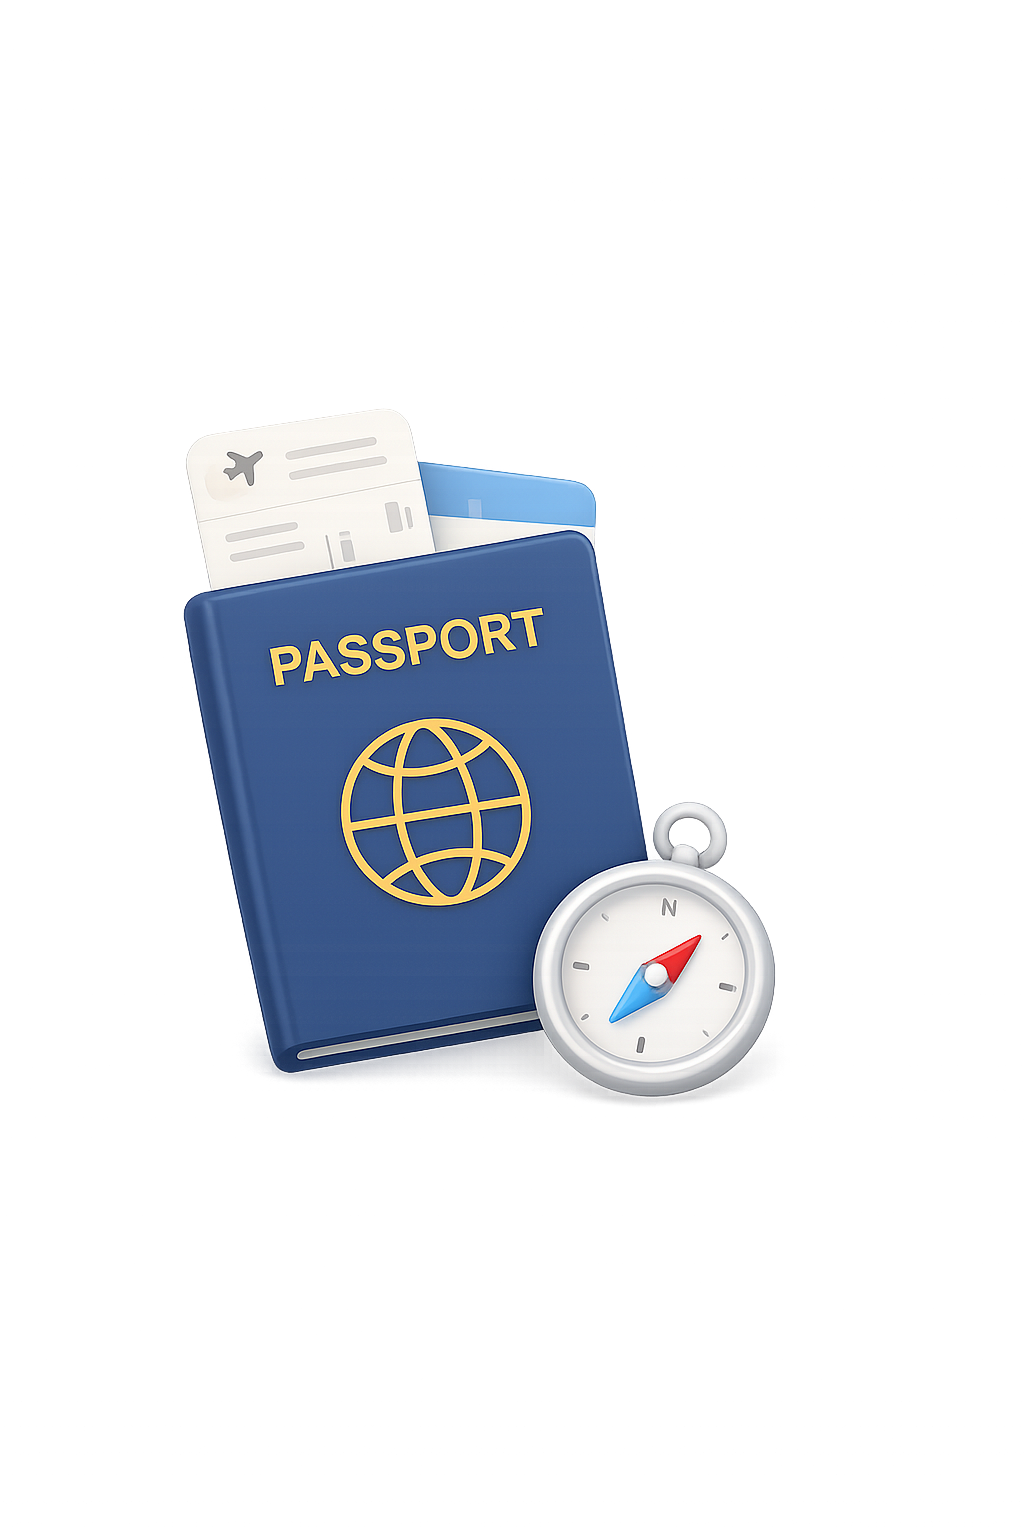
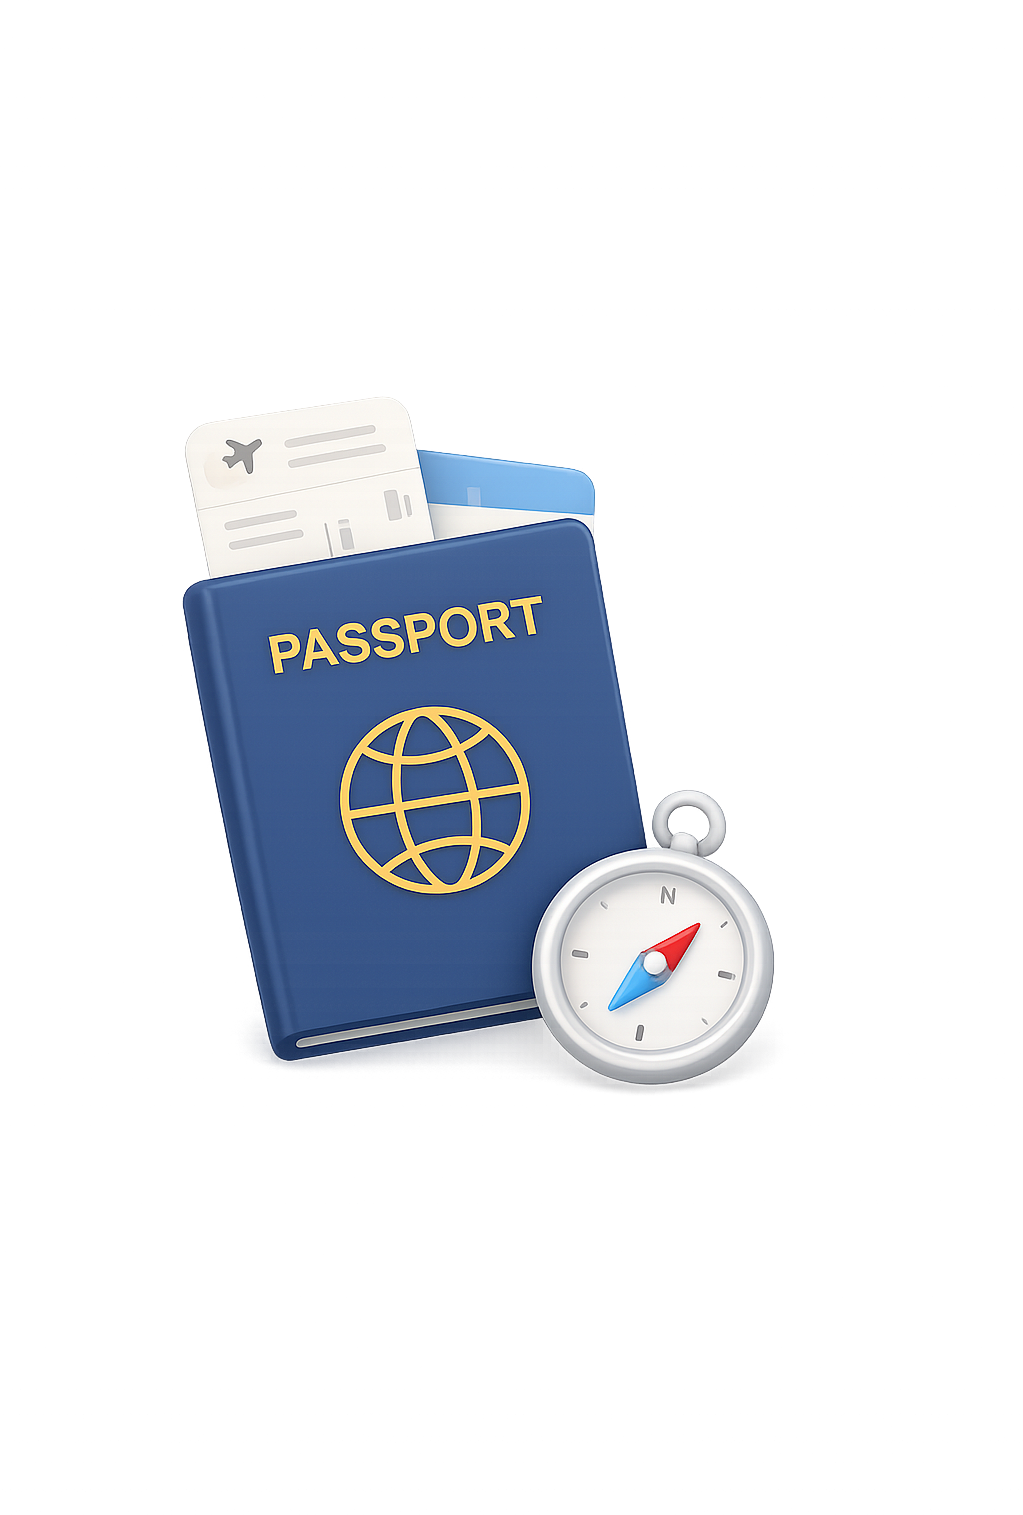
fix(games): match illustration aspect ratio to PNG canvas
- PNG trim으로 가장자리 미세 여백 제거 (1024x1536 → ~1023x1500)
- 트로피 헤더 컨테이너 200x280 (정사각형 → 2:3 PNG 비율과 일치)
- 카드 일러스트 컨테이너 130x180 (정사각형 → 2:3 PNG 비율과 일치)
- contain 모드에서 일러스트가 박스를 꽉 채워 시안과 비율 일치

Changed region(s): [[0.1818, 0.2792, 0.5758, 0.5894], [0.2727, 0.6205, 0.697, 0.7135], [0.2424, 0.6205, 0.2727, 0.6825]]

diff --git a/src/screens/GamesHub/GameCard.tsx b/src/screens/GamesHub/GameCard.tsx
@@ -49,7 +49,7 @@ export function GameCard({
     >
       <Image
         source={illustration}
-        style={{ width: 140, height: 140 }}
+        style={{ width: 130, height: 180 }}
         resizeMode="contain"
       />
       <View style={{ flex: 1, gap: 10 }}>

diff --git a/src/screens/GamesHub/GamesHubIntro.tsx b/src/screens/GamesHub/GamesHubIntro.tsx
@@ -34,7 +34,7 @@ export function GamesHubIntro() {
       </View>
       <Image
         source={require("../../../assets/game_tropi.png")}
-        style={{ width: 220, height: 220 }}
+        style={{ width: 200, height: 280 }}
         resizeMode="contain"
       />
     </View>